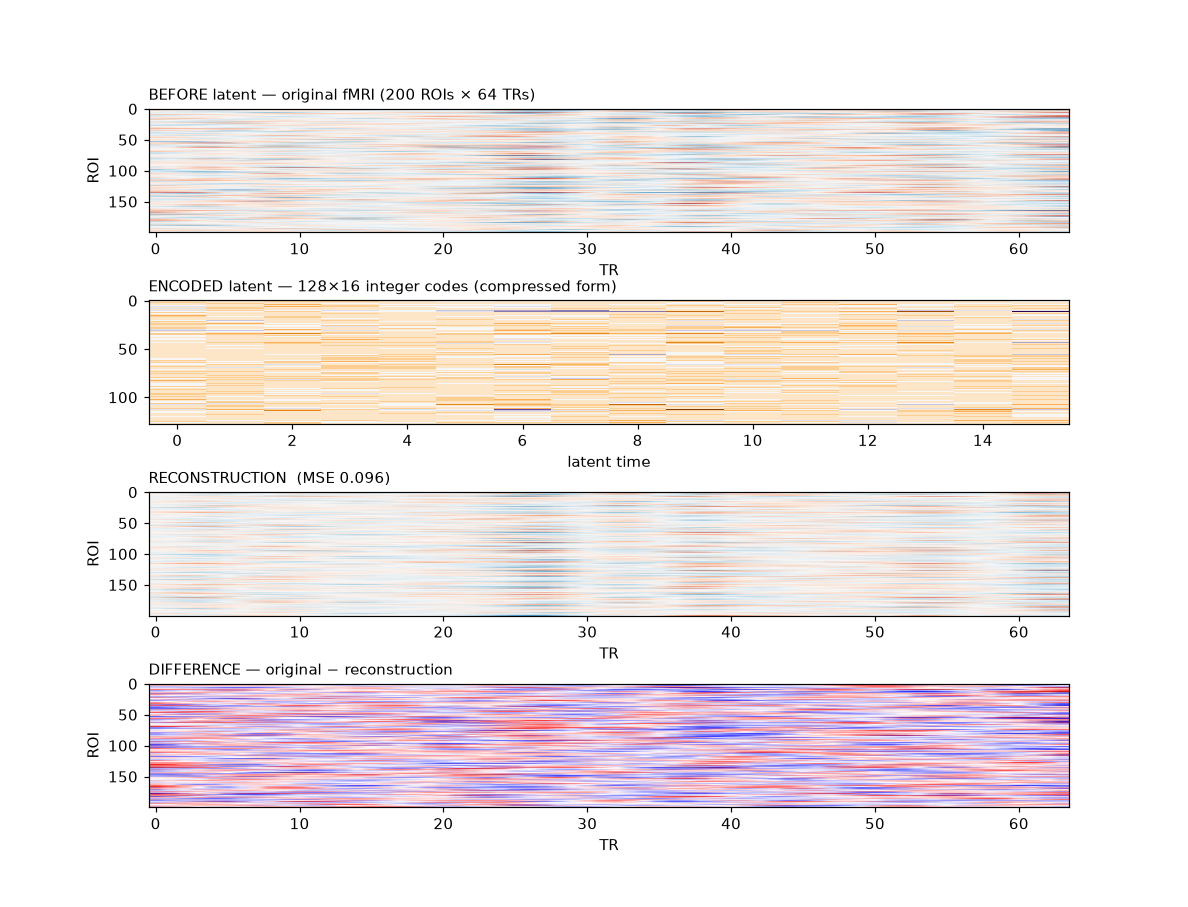
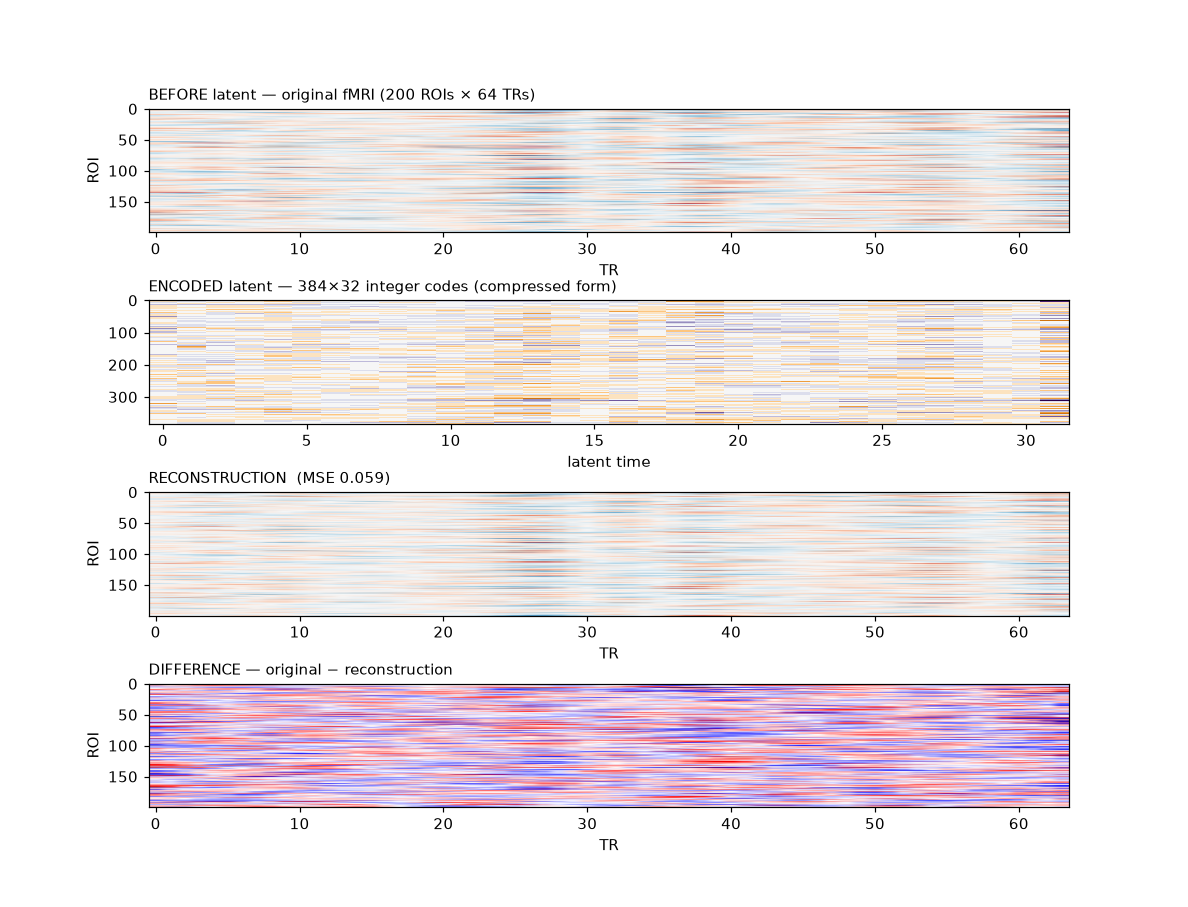
fMRI: spend the latent budget -> MSE 0.099, variance 79%
Per request, traded compression for fidelity by scaling c_lat (2x temporal kept):
  c_lat=128 -> MSE 0.163 / 65% / 58x
  c_lat=256 -> MSE 0.121 / 74% / 11x
  c_lat=384 -> MSE 0.099 / 79% /  8x   (headline)
  c_lat=512 -> MSE 0.094 / 80% /  6x   (overcomplete; flattens here = noise floor)

Headline codec now c_lat=384. Full path: MSE 0.50 -> 0.099, variance 51% -> 79%.

diff --git a/FMRI.md b/FMRI.md
@@ -14,13 +14,26 @@ downloads the per-subject `.1D` files (T TRs × 200 ROIs) and splits each into
 overlapping 64-TR windows → `(200, 64)` epochs, per-ROI z-scored. ~800 subjects →
 ~3,900 windows.
 
-## Result (held-out; spikes winsorized ±6σ, band-limited target, 4× temporal)
+## Result (held-out; spikes winsorized ±6σ, band-limited target, 2× temporal)
 
 | metric | value |
 |---|---|
-| reconstruction MSE | **0.163** (started at 0.50) |
-| variance explained | **65%** (started at 51%) |
-| compression vs float16 | **58×** |
+| reconstruction MSE | **0.099** (started at 0.50) |
+| variance explained | **79%** (started at 51%) |
+| compression vs float16 | **8×** |
+
+Latent budget trades compression for MSE directly — pick the operating point:
+
+| c_lat | MSE | variance | compression |
+|---|---|---|---|
+| 128 | 0.163 | 65% | 58× |
+| 256 | 0.121 | 74% | 11× |
+| **384** | **0.099** | **79%** | **8×** |
+| 512 (overcomplete) | 0.094 | 80% | 6× |
+
+MSE flattens at ~0.09 / 80% even with an over-complete latent — that residual is
+the irreducible noise. Headline is c_lat=384 (sub-0.1 MSE, still 8×); use c_lat=128
+for the high-compression 58× point.
 
 ## Why the MSE started high — and what actually fixed it
 
@@ -75,7 +88,7 @@ How well the *same* v4 codec compresses is a direct readout of signal redundancy
 |---|---|---|---|
 | ECG | 12 × 250 | 96% | 31× (periodic) |
 | EEG | 63 × 250 | 66% | 70× |
-| **fMRI** | **200 × 64** | **65%** | **58×** |
+| **fMRI** | **200 × 64** | **79%** | **8×** (or 65% @ 58×) |
 | protein seq | 20 × 250 | — | ~1× (max-entropy) |
 
 ## Run